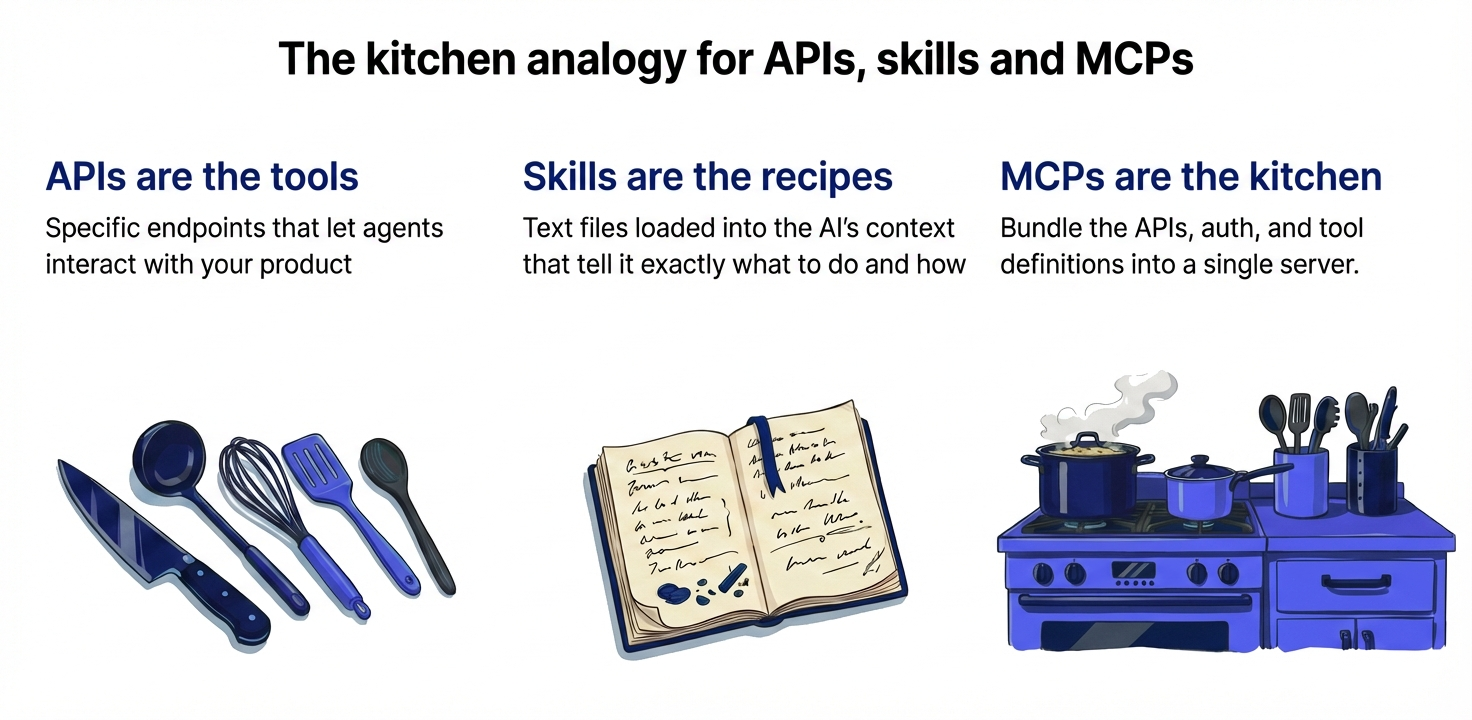
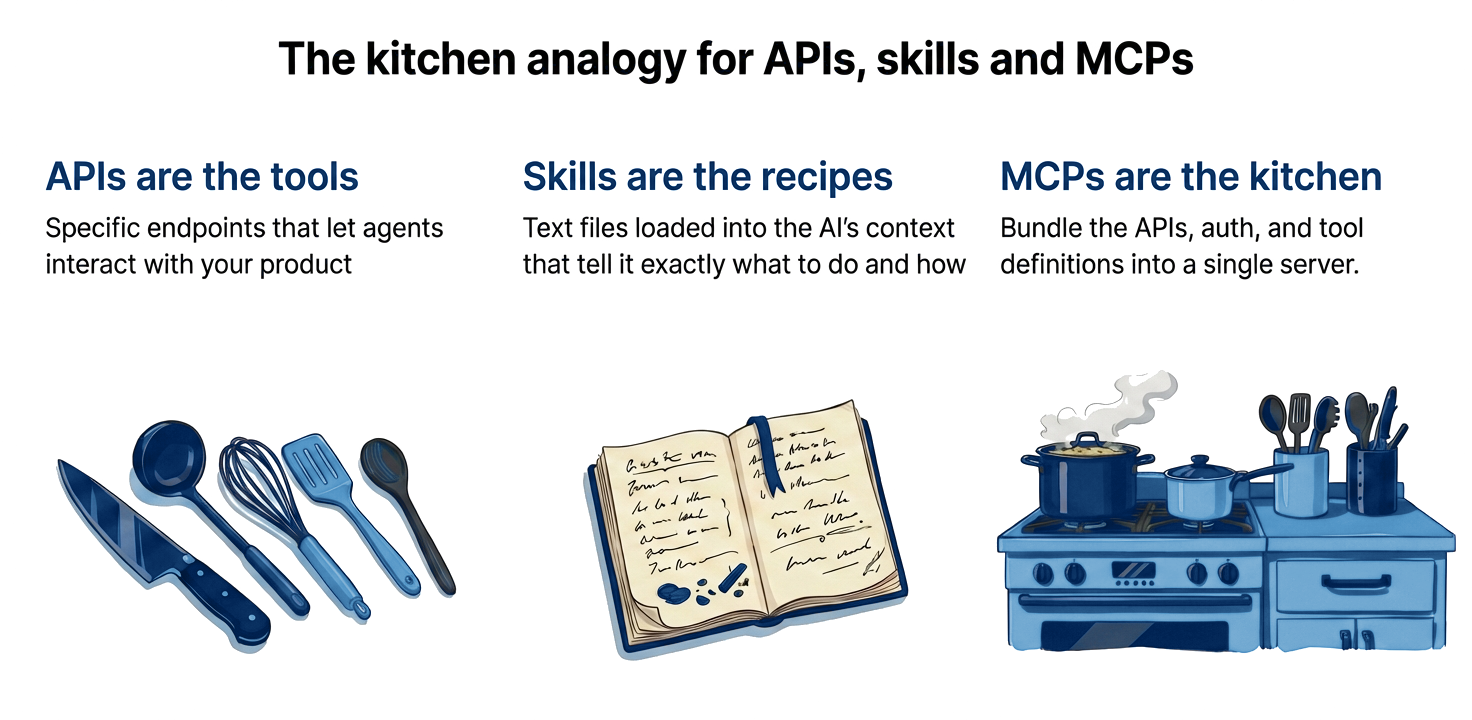
feat(slides): align Consensus theme with CVI v1.0 brand guide (#67)
* Align the Consensus theme with the CVI v1.0 brand guide

Replace the placeholder indigo palette with Consensus Navy, Ink and
Azure, and switch the deck to Roboto. Cover and section slides now use
the Navy/Ink and Azure/Navy gradients from the brand's PowerPoint
templates; the divider gradient reaches navy by 55% so centred white
text keeps AA contrast.

Roboto is requested at 600 as well as the brand's four weights, because
the shared stylesheet sets headings to 600 and Roboto would otherwise
silently fall back to Bold. The slide background stays white rather than
Paper #F9F9F9 so the white-matte illustrations sit flush.

* Recolour the Consensus illustrations onto the brand blues

The illustrations were drawn in the old indigo (hue ~230) and clashed
with Navy. Gradient-map their blues by lightness onto the CVI ramp
(Navy, Azure, Tint 02, Tint 01) so the original shading survives while
every blue lands on a brand colour. Line art, neutrals and the amber,
green and red semantic accents are untouched.

Also neutralise the off-white paper the source art was generated on
(#FEFFFA and similar), which showed as a tinted rectangle against the
slide. The SemiAnalysis screenshot is left alone because it is a cited
third-party source, and the bowling photo already sits on brand.

* Centre the capped heading block on statement slides

The statement layout centres its text, but the heading also carries a
max-width with no auto margin, so the block anchored to the left and the
[…]

Changed region(s): [[0.6562, 0.6111, 1.0, 0.9167], [0.1562, 0.6111, 0.2812, 0.8556]]

diff --git a/styles/themes/consensus.css b/styles/themes/consensus.css
@@ -1,9 +1,23 @@
 [data-theme="consensus"] {
-  --brand-primary: #4957F5;
-  --brand-text: #000000;
+  /* Consensus CVI v1.0 — Navy primary, Ink text, Azure for links and dividers */
+  --brand-primary: #002353;
+  --brand-text: #110B11;
+  /* White rather than Paper #F9F9F9: the deck's illustrations are PNGs with a
+     white matte, which shows as a visible box on any off-white slide. */
   --brand-bg: #FFFFFF;
-  --brand-bg-accent: #001AAB;
-  --brand-link: #4957F5;
+  --brand-bg-accent: #002353;
+  --brand-link: #5396C7;
   --brand-surface: #F7F7F9;
   --brand-on-accent: #FFFFFF;
+  --brand-font: 'Roboto';
+}
+
+/* CVI presentation templates: title slide runs Navy → Ink, dividers Azure → Navy.
+   The divider stops land navy by 55% so centred white text clears AA contrast. */
+[data-theme="consensus"] .slidev-layout.cover {
+  background: linear-gradient(135deg, #002353 0%, #110B11 100%);
+}
+
+[data-theme="consensus"] .slidev-layout.section {
+  background: linear-gradient(120deg, #5396C7 0%, #002353 55%);
 }

diff --git a/styles/index.css b/styles/index.css
@@ -9,7 +9,8 @@
 
 .slidev-layout {
   color: var(--brand-text);
-  font-family: 'Inter', sans-serif;
+  background: var(--brand-bg);
+  font-family: var(--brand-font, 'Inter'), sans-serif;
 }
 
 .slidev-layout h1,
@@ -56,6 +57,9 @@
   letter-spacing: -0.01em;
   text-wrap: balance;
   max-width: 25ch;
+  /* The layout centres its text, so the capped block has to be centred too —
+     without this it anchors left and the centred lines sit off-centre. */
+  margin-inline: auto;
 }
 
 .slidev-layout.statement.statement-wide h1 {

diff --git a/styles/themes/melatech.css b/styles/themes/melatech.css
@@ -6,4 +6,5 @@
   --brand-link: #3898EC;
   --brand-surface: #F8F8F8;
   --brand-on-accent: #FFFFFF;
+  --brand-font: 'Inter';
 }

diff --git a/slides-consensus.md b/slides-consensus.md
@@ -5,8 +5,9 @@ titleTemplate: '%s'
 author: Consensus
 colorSchema: light
 fonts:
-  sans: Inter
+  sans: Roboto
   mono: Inconsolata
+  weights: '300,400,500,600,700'
   provider: google
 favicon: /consensus/favicon.svg
 htmlAttrs:
